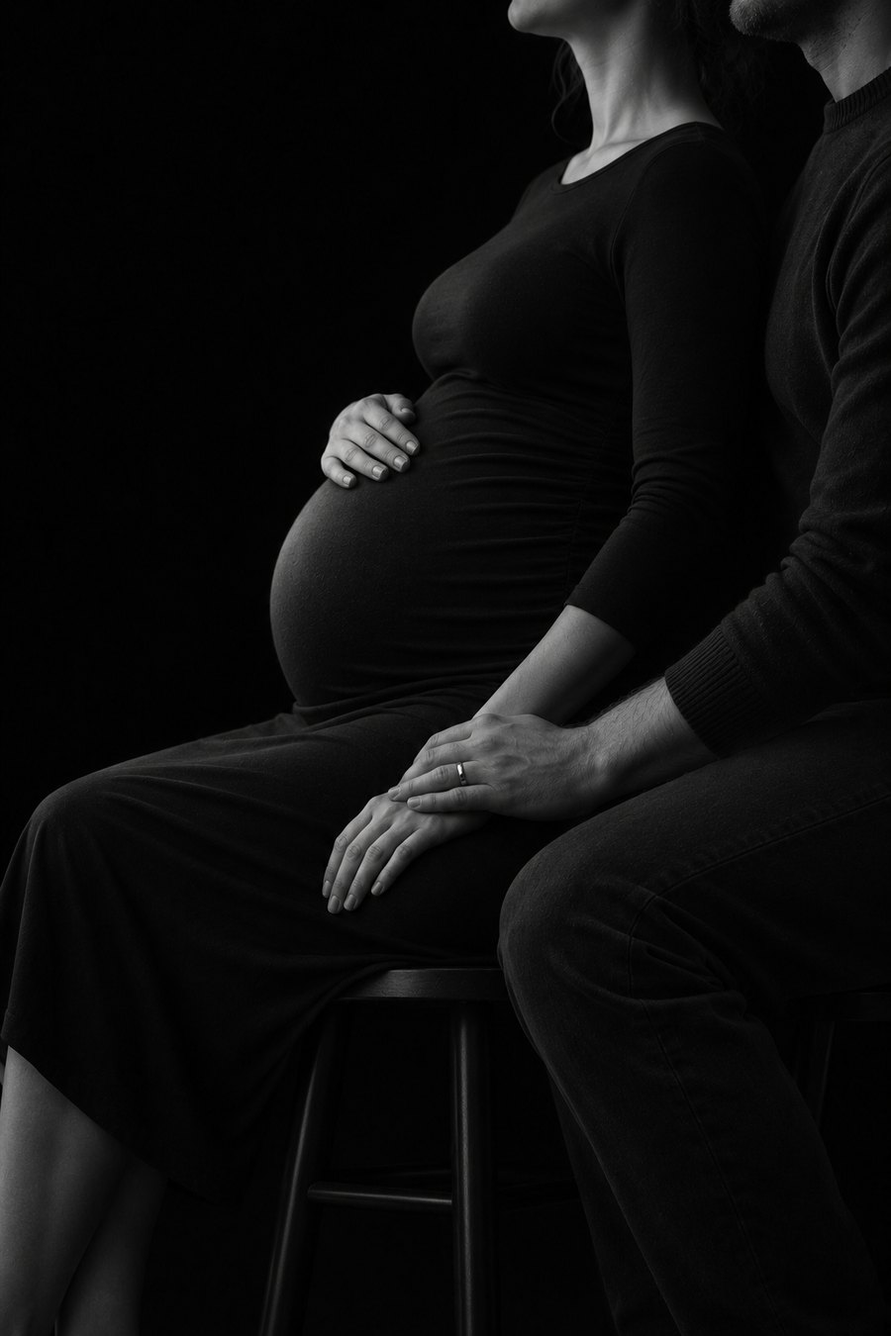
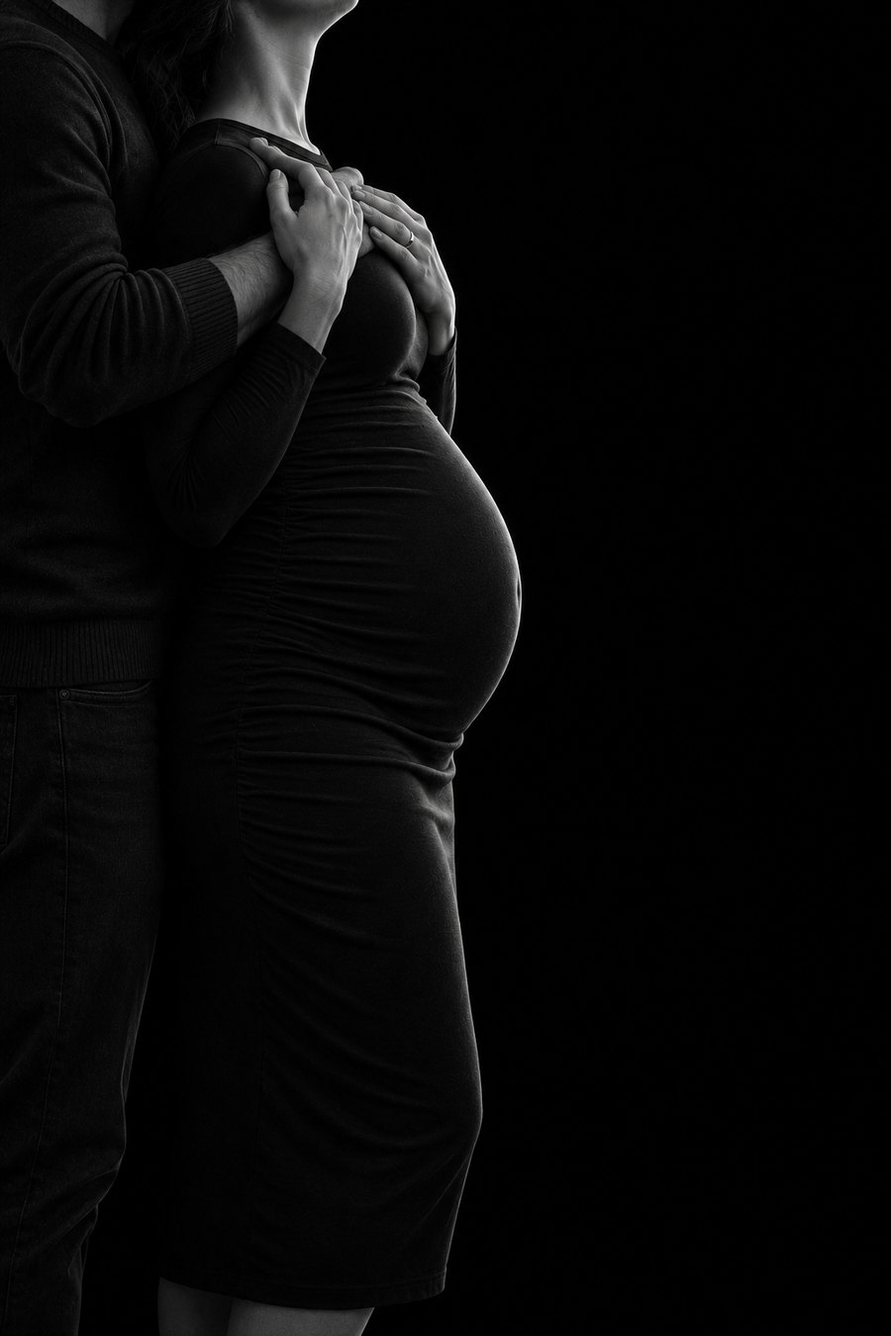
Беременность: вместо пары на стуле возвращено объятие

diff --git a/site/kz/index.html b/site/kz/index.html
@@ -42,7 +42,7 @@ var t=document.querySelector('meta[name="theme-color"]');if(t)t.content=p[1]}();
 <link rel="preconnect" href="https://fonts.googleapis.com">
 <link rel="preconnect" href="https://fonts.gstatic.com" crossorigin>
 <link href="https://fonts.googleapis.com/css2?family=Inter:wght@400;500;600;700;800&family=Unbounded:wght@900&display=swap" rel="stylesheet">
-<link rel="stylesheet" href="../assets/style.css?v=1794802335">
+<link rel="stylesheet" href="../assets/style.css?v=1794802442">
 </head>
 <body id="top" class="is-home">
 <header class="top">
@@ -61,9 +61,9 @@ var t=document.querySelector('meta[name="theme-color"]');if(t)t.content=p[1]}();
 
 <div class="home" id="home">
 <section class="stage">
-  <div class="splash"><picture class="tile"><source media="(max-width: 760px)" srcset="../photos/home/02.jpg?v=1794802335"><img src="../photos/home/01.jpg?v=1794802335" alt="Veronika Kim"></picture></div>
-  <h1 class="wordmark"><picture><source media="(max-width: 760px)" data-srcset="../assets/wordmark-v1.png?v=1794802335" width="678" height="1692"><img data-src="../assets/wordmark-1.png?v=1794802335" alt="Veronika Kim" width="1692" height="678"></picture><script>!function(p){var n=document.documentElement.getAttribute("data-logo")||1,s=p.firstChild,i=p.lastChild;s.srcset=s.getAttribute("data-srcset").replace("-v1.","-v"+n+".");i.src=i.getAttribute("data-src").replace("-1.","-"+n+".")}(document.currentScript.previousElementSibling)</script><noscript><img src="../assets/wordmark-1.png?v=1794802335" alt="Veronika Kim" width="1692" height="678"></noscript></h1>
-  <div class="drift"><div class="drift-item"><a href="../kz/art/editorial/"><img src="../photos/drift/editorial.jpg?v=1794802335" width="315" height="560" alt="Авторлық портрет" decoding="async"></a></div><div class="drift-item"><a href="../kz/book/mountains/"><img src="../photos/drift/mountains.jpg?v=1794802335" width="560" height="373" alt="Таудағы дрон" decoding="async"></a></div><div class="drift-item"><a href="../kz/book/kids/"><img src="../photos/drift/kids.jpg?v=1794802335" width="400" height="560" alt="Балалар" decoding="async"></a></div><div class="drift-item"><a href="../kz/book/underwater/"><img src="../photos/drift/underwater.jpg?v=1794802335" width="448" height="560" alt="Су астында" decoding="async"></a></div><div class="drift-item"><a href="../kz/book/portrait/"><img src="../photos/drift/portrait.jpg?v=1794802335" width="420" height="560" alt="Портрет" decoding="async"></a></div><div class="drift-item"><a href="../kz/architecture/"><img src="../photos/drift/architecture.jpg?v=1794802335" width="560" height="405" alt="Сәулет және дрон" decoding="async"></a></div><div class="drift-item"><a href="../kz/book/love-story/"><img src="../photos/drift/love-story.jpg?v=1794802335" width="560" height="373" alt="Love story" decoding="async"></a></div><div class="drift-item"><a href="../kz/art/travel/"><img src="../photos/drift/travel.jpg?v=1794802335" width="560" height="373" alt="Саяхат" decoding="async"></a></div></div>
+  <div class="splash"><picture class="tile"><source media="(max-width: 760px)" srcset="../photos/home/02.jpg?v=1794802442"><img src="../photos/home/01.jpg?v=1794802442" alt="Veronika Kim"></picture></div>
+  <h1 class="wordmark"><picture><source media="(max-width: 760px)" data-srcset="../assets/wordmark-v1.png?v=1794802442" width="678" height="1692"><img data-src="../assets/wordmark-1.png?v=1794802442" alt="Veronika Kim" width="1692" height="678"></picture><script>!function(p){var n=document.documentElement.getAttribute("data-logo")||1,s=p.firstChild,i=p.lastChild;s.srcset=s.getAttribute("data-srcset").replace("-v1.","-v"+n+".");i.src=i.getAttribute("data-src").replace("-1.","-"+n+".")}(document.currentScript.previousElementSibling)</script><noscript><img src="../assets/wordmark-1.png?v=1794802442" alt="Veronika Kim" width="1692" height="678"></noscript></h1>
+  <div class="drift"><div class="drift-item"><a href="../kz/art/editorial/"><img src="../photos/drift/editorial.jpg?v=1794802442" width="315" height="560" alt="Авторлық портрет" decoding="async"></a></div><div class="drift-item"><a href="../kz/book/mountains/"><img src="../photos/drift/mountains.jpg?v=1794802442" width="560" height="373" alt="Таудағы дрон" decoding="async"></a></div><div class="drift-item"><a href="../kz/book/kids/"><img src="../photos/drift/kids.jpg?v=1794802442" width="400" height="560" alt="Балалар" decoding="async"></a></div><div class="drift-item"><a href="../kz/book/underwater/"><img src="../photos/drift/underwater.jpg?v=1794802442" width="448" height="560" alt="Су астында" decoding="async"></a></div><div class="drift-item"><a href="../kz/book/portrait/"><img src="../photos/drift/portrait.jpg?v=1794802442" width="420" height="560" alt="Портрет" decoding="async"></a></div><div class="drift-item"><a href="../kz/architecture/"><img src="../photos/drift/architecture.jpg?v=1794802442" width="560" height="405" alt="Сәулет және дрон" decoding="async"></a></div><div class="drift-item"><a href="../kz/book/love-story/"><img src="../photos/drift/love-story.jpg?v=1794802442" width="560" height="373" alt="Love story" decoding="async"></a></div><div class="drift-item"><a href="../kz/art/travel/"><img src="../photos/drift/travel.jpg?v=1794802442" width="560" height="373" alt="Саяхат" decoding="async"></a></div></div>
 </section>
 <div class="home-content">
 <p class="statement">Маған мінсіз адамдар керек емес. <em>Маған тірі адамдар қызық.</em></p>
@@ -90,6 +90,6 @@ var t=document.querySelector('meta[name="theme-color"]');if(t)t.content=p[1]}();
   <div class="foot-bottom"><span>© 2026 Veronika Kim. Барлық құқықтар қорғалған</span><a href="#top">Жоғарыға</a></div>
 </footer>
 <div class="lb" role="dialog" aria-modal="true"><span class="c"></span><button class="x">Жабу</button><button class="p">← Артқа</button><img alt=""><button class="nx">Алға →</button></div>
-<script src="../assets/app.js?v=1794802335"></script>
+<script src="../assets/app.js?v=1794802442"></script>
 </body>
 </html>

diff --git a/site/en/index.html b/site/en/index.html
@@ -42,7 +42,7 @@ var t=document.querySelector('meta[name="theme-color"]');if(t)t.content=p[1]}();
 <link rel="preconnect" href="https://fonts.googleapis.com">
 <link rel="preconnect" href="https://fonts.gstatic.com" crossorigin>
 <link href="https://fonts.googleapis.com/css2?family=Inter:wght@400;500;600;700;800&family=Unbounded:wght@900&display=swap" rel="stylesheet">
-<link rel="stylesheet" href="../assets/style.css?v=1794802335">
+<link rel="stylesheet" href="../assets/style.css?v=1794802442">
 </head>
 <body id="top" class="is-home">
 <header class="top">
@@ -61,9 +61,9 @@ var t=document.querySelector('meta[name="theme-color"]');if(t)t.content=p[1]}();
 
 <div class="home" id="home">
 <section class="stage">
-  <div class="splash"><picture class="tile"><source media="(max-width: 760px)" srcset="../photos/home/02.jpg?v=1794802335"><img src="../photos/home/01.jpg?v=1794802335" alt="Veronika Kim"></picture></div>
-  <h1 class="wordmark"><picture><source media="(max-width: 760px)" data-srcset="../assets/wordmark-v1.png?v=1794802335" width="678" height="1692"><img data-src="../assets/wordmark-1.png?v=1794802335" alt="Veronika Kim" width="1692" height="678"></picture><script>!function(p){var n=document.documentElement.getAttribute("data-logo")||1,s=p.firstChild,i=p.lastChild;s.srcset=s.getAttribute("data-srcset").replace("-v1.","-v"+n+".");i.src=i.getAttribute("data-src").replace("-1.","-"+n+".")}(document.currentScript.previousElementSibling)</script><noscript><img src="../assets/wordmark-1.png?v=1794802335" alt="Veronika Kim" width="1692" height="678"></noscript></h1>
-  <div class="drift"><div class="drift-item"><a href="../en/art/editorial/"><img src="../photos/drift/editorial.jpg?v=1794802335" width="315" height="560" alt="Art portrait" decoding="async"></a></div><div class="drift-item"><a href="../en/book/mountains/"><img src="../photos/drift/mountains.jpg?v=1794802335" width="560" height="373" alt="Mountains &amp; drone" decoding="async"></a></div><div class="drift-item"><a href="../en/book/kids/"><img src="../photos/drift/kids.jpg?v=1794802335" width="400" height="560" alt="Children" decoding="async"></a></div><div class="drift-item"><a href="../en/book/underwater/"><img src="../photos/drift/underwater.jpg?v=1794802335" width="448" height="560" alt="Underwater" decoding="async"></a></div><div class="drift-item"><a href="../en/book/portrait/"><img src="../photos/drift/portrait.jpg?v=1794802335" width="420" height="560" alt="Portrait" decoding="async"></a></div><div class="drift-item"><a href="../en/architecture/"><img src="../photos/drift/architecture.jpg?v=1794802335" width="560" height="405" alt="Architecture &amp; drone" decoding="async"></a></div><div class="drift-item"><a href="../en/book/love-story/"><img src="../photos/drift/love-story.jpg?v=1794802335" width="560" height="373" alt="Love story" decoding="async"></a></div><div class="drift-item"><a href="../en/art/travel/"><img src="../photos/drift/travel.jpg?v=1794802335" width="560" height="373" alt="Travel" decoding="async"></a></div></div>
+  <div class="splash"><picture class="tile"><source media="(max-width: 760px)" srcset="../photos/home/02.jpg?v=1794802442"><img src="../photos/home/01.jpg?v=1794802442" alt="Veronika Kim"></picture></div>
+  <h1 class="wordmark"><picture><source media="(max-width: 760px)" data-srcset="../assets/wordmark-v1.png?v=1794802442" width="678" height="1692"><img data-src="../assets/wordmark-1.png?v=1794802442" alt="Veronika Kim" width="1692" height="678"></picture><script>!function(p){var n=document.documentElement.getAttribute("data-logo")||1,s=p.firstChild,i=p.lastChild;s.srcset=s.getAttribute("data-srcset").replace("-v1.","-v"+n+".");i.src=i.getAttribute("data-src").replace("-1.","-"+n+".")}(document.currentScript.previousElementSibling)</script><noscript><img src="../assets/wordmark-1.png?v=1794802442" alt="Veronika Kim" width="1692" height="678"></noscript></h1>
+  <div class="drift"><div class="drift-item"><a href="../en/art/editorial/"><img src="../photos/drift/editorial.jpg?v=1794802442" width="315" height="560" alt="Art portrait" decoding="async"></a></div><div class="drift-item"><a href="../en/book/mountains/"><img src="../photos/drift/mountains.jpg?v=1794802442" width="560" height="373" alt="Mountains &amp; drone" decoding="async"></a></div><div class="drift-item"><a href="../en/book/kids/"><img src="../photos/drift/kids.jpg?v=1794802442" width="400" height="560" alt="Children" decoding="async"></a></div><div class="drift-item"><a href="../en/book/underwater/"><img src="../photos/drift/underwater.jpg?v=1794802442" width="448" height="560" alt="Underwater" decoding="async"></a></div><div class="drift-item"><a href="../en/book/portrait/"><img src="../photos/drift/portrait.jpg?v=1794802442" width="420" height="560" alt="Portrait" decoding="async"></a></div><div class="drift-item"><a href="../en/architecture/"><img src="../photos/drift/architecture.jpg?v=1794802442" width="560" height="405" alt="Architecture &amp; drone" decoding="async"></a></div><div class="drift-item"><a href="../en/book/love-story/"><img src="../photos/drift/love-story.jpg?v=1794802442" width="560" height="373" alt="Love story" decoding="async"></a></div><div class="drift-item"><a href="../en/art/travel/"><img src="../photos/drift/travel.jpg?v=1794802442" width="560" height="373" alt="Travel" decoding="async"></a></div></div>
 </section>
 <div class="home-content">
 <p class="statement">I don't need perfect people. <em>I'm interested in real ones.</em></p>
@@ -90,6 +90,6 @@ var t=document.querySelector('meta[name="theme-color"]');if(t)t.content=p[1]}();
   <div class="foot-bottom"><span>© 2026 Veronika Kim. All rights reserved</span><a href="#top">Back to top</a></div>
 </footer>
 <div class="lb" role="dialog" aria-modal="true"><span class="c"></span><button class="x">Close</button><button class="p">← Prev</button><img alt=""><button class="nx">Next →</button></div>
-<script src="../assets/app.js?v=1794802335"></script>
+<script src="../assets/app.js?v=1794802442"></script>
 </body>
 </html>

diff --git a/site/index.html b/site/index.html
@@ -42,7 +42,7 @@ var t=document.querySelector('meta[name="theme-color"]');if(t)t.content=p[1]}();
 <link rel="preconnect" href="https://fonts.googleapis.com">
 <link rel="preconnect" href="https://fonts.gstatic.com" crossorigin>
 <link href="https://fonts.googleapis.com/css2?family=Inter:wght@400;500;600;700;800&family=Unbounded:wght@900&display=swap" rel="stylesheet">
-<link rel="stylesheet" href="assets/style.css?v=1794802335">
+<link rel="stylesheet" href="assets/style.css?v=1794802442">
 </head>
 <body id="top" class="is-home">
 <header class="top">
@@ -61,9 +61,9 @@ var t=document.querySelector('meta[name="theme-color"]');if(t)t.content=p[1]}();
 
 <div class="home" id="home">
 <section class="stage">
-  <div class="splash"><picture class="tile"><source media="(max-width: 760px)" srcset="photos/home/02.jpg?v=1794802335"><img src="photos/home/01.jpg?v=1794802335" alt="Veronika Kim"></picture></div>
-  <h1 class="wordmark"><picture><source media="(max-width: 760px)" data-srcset="assets/wordmark-v1.png?v=1794802335" width="678" height="1692"><img data-src="assets/wordmark-1.png?v=1794802335" alt="Veronika Kim" width="1692" height="678"></picture><script>!function(p){var n=document.documentElement.getAttribute("data-logo")||1,s=p.firstChild,i=p.lastChild;s.srcset=s.getAttribute("data-srcset").replace("-v1.","-v"+n+".");i.src=i.getAttribute("data-src").replace("-1.","-"+n+".")}(document.currentScript.previousElementSibling)</script><noscript><img src="assets/wordmark-1.png?v=1794802335" alt="Veronika Kim" width="1692" height="678"></noscript></h1>
-  <div class="drift"><div class="drift-item"><a href="art/editorial/"><img src="photos/drift/editorial.jpg?v=1794802335" width="315" height="560" alt="Авторский портрет" decoding="async"></a></div><div class="drift-item"><a href="book/mountains/"><img src="photos/drift/mountains.jpg?v=1794802335" width="560" height="373" alt="Горы с дроном" decoding="async"></a></div><div class="drift-item"><a href="book/kids/"><img src="photos/drift/kids.jpg?v=1794802335" width="400" height="560" alt="Дети" decoding="async"></a></div><div class="drift-item"><a href="book/underwater/"><img src="photos/drift/underwater.jpg?v=1794802335" width="448" height="560" alt="Под водой" decoding="async"></a></div><div class="drift-item"><a href="book/portrait/"><img src="photos/drift/portrait.jpg?v=1794802335" width="420" height="560" alt="Портрет" decoding="async"></a></div><div class="drift-item"><a href="architecture/"><img src="photos/drift/architecture.jpg?v=1794802335" width="560" height="405" alt="Архитектура и дрон" decoding="async"></a></div><div class="drift-item"><a href="book/love-story/"><img src="photos/drift/love-story.jpg?v=1794802335" width="560" height="373" alt="Love story" decoding="async"></a></div><div class="drift-item"><a href="art/travel/"><img src="photos/drift/travel.jpg?v=1794802335" width="560" height="373" alt="Travel" decoding="async"></a></div></div>
+  <div class="splash"><picture class="tile"><source media="(max-width: 760px)" srcset="photos/home/02.jpg?v=1794802442"><img src="photos/home/01.jpg?v=1794802442" alt="Veronika Kim"></picture></div>
+  <h1 class="wordmark"><picture><source media="(max-width: 760px)" data-srcset="assets/wordmark-v1.png?v=1794802442" width="678" height="1692"><img data-src="assets/wordmark-1.png?v=1794802442" alt="Veronika Kim" width="1692" height="678"></picture><script>!function(p){var n=document.documentElement.getAttribute("data-logo")||1,s=p.firstChild,i=p.lastChild;s.srcset=s.getAttribute("data-srcset").replace("-v1.","-v"+n+".");i.src=i.getAttribute("data-src").replace("-1.","-"+n+".")}(document.currentScript.previousElementSibling)</script><noscript><img src="assets/wordmark-1.png?v=1794802442" alt="Veronika Kim" width="1692" height="678"></noscript></h1>
+  <div class="drift"><div class="drift-item"><a href="art/editorial/"><img src="photos/drift/editorial.jpg?v=1794802442" width="315" height="560" alt="Авторский портрет" decoding="async"></a></div><div class="drift-item"><a href="book/mountains/"><img src="photos/drift/mountains.jpg?v=1794802442" width="560" height="373" alt="Горы с дроном" decoding="async"></a></div><div class="drift-item"><a href="book/kids/"><img src="photos/drift/kids.jpg?v=1794802442" width="400" height="560" alt="Дети" decoding="async"></a></div><div class="drift-item"><a href="book/underwater/"><img src="photos/drift/underwater.jpg?v=1794802442" width="448" height="560" alt="Под водой" decoding="async"></a></div><div class="drift-item"><a href="book/portrait/"><img src="photos/drift/portrait.jpg?v=1794802442" width="420" height="560" alt="Портрет" decoding="async"></a></div><div class="drift-item"><a href="architecture/"><img src="photos/drift/architecture.jpg?v=1794802442" width="560" height="405" alt="Архитектура и дрон" decoding="async"></a></div><div class="drift-item"><a href="book/love-story/"><img src="photos/drift/love-story.jpg?v=1794802442" width="560" height="373" alt="Love story" decoding="async"></a></div><div class="drift-item"><a href="art/travel/"><img src="photos/drift/travel.jpg?v=1794802442" width="560" height="373" alt="Travel" decoding="async"></a></div></div>
 </section>
 <div class="home-content">
 <p class="statement">Мне не нужны идеальные люди. <em>Мне интересны живые.</em></p>
@@ -90,6 +90,6 @@ var t=document.querySelector('meta[name="theme-color"]');if(t)t.content=p[1]}();
   <div class="foot-bottom"><span>© 2026 Veronika Kim. Все права защищены</span><a href="#top">Наверх</a></div>
 </footer>
 <div class="lb" role="dialog" aria-modal="true"><span class="c"></span><button class="x">Закрыть</button><button class="p">← Назад</button><img alt=""><button class="nx">Вперёд →</button></div>
-<script src="assets/app.js?v=1794802335"></script>
+<script src="assets/app.js?v=1794802442"></script>
 </body>
 </html>

diff --git a/site/kz/art/editorial/index.html b/site/kz/art/editorial/index.html
@@ -42,7 +42,7 @@ var t=document.querySelector('meta[name="theme-color"]');if(t)t.content=p[1]}();
 <link rel="preconnect" href="https://fonts.googleapis.com">
 <link rel="preconnect" href="https://fonts.gstatic.com" crossorigin>
 <link href="https://fonts.googleapis.com/css2?family=Inter:wght@400;500;600;700;800&family=Unbounded:wght@900&display=swap" rel="stylesheet">
-<link rel="stylesheet" href="../../../assets/style.css?v=1794802335">
+<link rel="stylesheet" href="../../../assets/style.css?v=1794802442">
 </head>
 <body id="top">
 <header class="top">
@@ -70,6 +70,6 @@ var t=document.querySelector('meta[name="theme-color"]');if(t)t.content=p[1]}();
   <div class="foot-bottom"><span>© 2026 Veronika Kim. Барлық құқықтар қорғалған</span><a href="#top">Жоғарыға</a></div>
 </footer>
 <div class="lb" role="dialog" aria-modal="true"><span class="c"></span><button class="x">Жабу</button><button class="p">← Артқа</button><img alt=""><button class="nx">Алға →</button></div>
-<script src="../../../assets/app.js?v=1794802335"></script>
+<script src="../../../assets/app.js?v=1794802442"></script>
 </body>
 </html>

diff --git a/site/kz/art/film-darkroom/index.html b/site/kz/art/film-darkroom/index.html
@@ -42,7 +42,7 @@ var t=document.querySelector('meta[name="theme-color"]');if(t)t.content=p[1]}();
 <link rel="preconnect" href="https://fonts.googleapis.com">
 <link rel="preconnect" href="https://fonts.gstatic.com" crossorigin>
 <link href="https://fonts.googleapis.com/css2?family=Inter:wght@400;500;600;700;800&family=Unbounded:wght@900&display=swap" rel="stylesheet">
-<link rel="stylesheet" href="../../../assets/style.css?v=1794802335">
+<link rel="stylesheet" href="../../../assets/style.css?v=1794802442">
 </head>
 <body id="top">
 <header class="top">
@@ -70,6 +70,6 @@ var t=document.querySelector('meta[name="theme-color"]');if(t)t.content=p[1]}();
   <div class="foot-bottom"><span>© 2026 Veronika Kim. Барлық құқықтар қорғалған</span><a href="#top">Жоғарыға</a></div>
 </footer>
 <div class="lb" role="dialog" aria-modal="true"><span class="c"></span><button class="x">Жабу</button><button class="p">← Артқа</button><img alt=""><button class="nx">Алға →</button></div>
-<script src="../../../assets/app.js?v=1794802335"></script>
+<script src="../../../assets/app.js?v=1794802442"></script>
 </body>
 </html>

diff --git a/site/kz/art/thirst-for-life/index.html b/site/kz/art/thirst-for-life/index.html
@@ -42,7 +42,7 @@ var t=document.querySelector('meta[name="theme-color"]');if(t)t.content=p[1]}();
 <link rel="preconnect" href="https://fonts.googleapis.com">
 <link rel="preconnect" href="https://fonts.gstatic.com" crossorigin>
 <link href="https://fonts.googleapis.com/css2?family=Inter:wght@400;500;600;700;800&family=Unbounded:wght@900&display=swap" rel="stylesheet">
-<link rel="stylesheet" href="../../../assets/style.css?v=1794802335">
+<link rel="stylesheet" href="../../../assets/style.css?v=1794802442">
 </head>
 <body id="top">
 <header class="top">
@@ -70,6 +70,6 @@ var t=document.querySelector('meta[name="theme-color"]');if(t)t.content=p[1]}();
   <div class="foot-bottom"><span>© 2026 Veronika Kim. Барлық құқықтар қорғалған</span><a href="#top">Жоғарыға</a></div>
 </footer>
 <div class="lb" role="dialog" aria-modal="true"><span class="c"></span><button class="x">Жабу</button><button class="p">← Артқа</button><img alt=""><button class="nx">Алға →</button></div>
-<script src="../../../assets/app.js?v=1794802335"></script>
+<script src="../../../assets/app.js?v=1794802442"></script>
 </body>
 </html>

diff --git a/site/kz/art/travel/index.html b/site/kz/art/travel/index.html
@@ -42,7 +42,7 @@ var t=document.querySelector('meta[name="theme-color"]');if(t)t.content=p[1]}();
 <link rel="preconnect" href="https://fonts.googleapis.com">
 <link rel="preconnect" href="https://fonts.gstatic.com" crossorigin>
 <link href="https://fonts.googleapis.com/css2?family=Inter:wght@400;500;600;700;800&family=Unbounded:wght@900&display=swap" rel="stylesheet">
-<link rel="stylesheet" href="../../../assets/style.css?v=1794802335">
+<link rel="stylesheet" href="../../../assets/style.css?v=1794802442">
 </head>
 <body id="top">
 <header class="top">
@@ -70,6 +70,6 @@ var t=document.querySelector('meta[name="theme-color"]');if(t)t.content=p[1]}();
   <div class="foot-bottom"><span>© 2026 Veronika Kim. Барлық құқықтар қорғалған</span><a href="#top">Жоғарыға</a></div>
 </footer>
 <div class="lb" role="dialog" aria-modal="true"><span class="c"></span><button class="x">Жабу</button><button class="p">← Артқа</button><img alt=""><button class="nx">Алға →</button></div>
-<script src="../../../assets/app.js?v=1794802335"></script>
+<script src="../../../assets/app.js?v=1794802442"></script>
 </body>
 </html>

diff --git a/site/kz/book/family/index.html b/site/kz/book/family/index.html
@@ -42,7 +42,7 @@ var t=document.querySelector('meta[name="theme-color"]');if(t)t.content=p[1]}();
 <link rel="preconnect" href="https://fonts.googleapis.com">
 <link rel="preconnect" href="https://fonts.gstatic.com" crossorigin>
 <link href="https://fonts.googleapis.com/css2?family=Inter:wght@400;500;600;700;800&family=Unbounded:wght@900&display=swap" rel="stylesheet">
-<link rel="stylesheet" href="../../../assets/style.css?v=1794802335">
+<link rel="stylesheet" href="../../../assets/style.css?v=1794802442">
 </head>
 <body id="top">
 <header class="top">
@@ -70,6 +70,6 @@ var t=document.querySelector('meta[name="theme-color"]');if(t)t.content=p[1]}();
   <div class="foot-bottom"><span>© 2026 Veronika Kim. Барлық құқықтар қорғалған</span><a href="#top">Жоғарыға</a></div>
 </footer>
 <div class="lb" role="dialog" aria-modal="true"><span class="c"></span><button class="x">Жабу</button><button class="p">← Артқа</button><img alt=""><button class="nx">Алға →</button></div>
-<script src="../../../assets/app.js?v=1794802335"></script>
+<script src="../../../assets/app.js?v=1794802442"></script>
 </body>
 </html>

diff --git a/site/kz/book/kids/index.html b/site/kz/book/kids/index.html
@@ -42,7 +42,7 @@ var t=document.querySelector('meta[name="theme-color"]');if(t)t.content=p[1]}();
 <link rel="preconnect" href="https://fonts.googleapis.com">
 <link rel="preconnect" href="https://fonts.gstatic.com" crossorigin>
 <link href="https://fonts.googleapis.com/css2?family=Inter:wght@400;500;600;700;800&family=Unbounded:wght@900&display=swap" rel="stylesheet">
-<link rel="stylesheet" href="../../../assets/style.css?v=1794802335">
+<link rel="stylesheet" href="../../../assets/style.css?v=1794802442">
 </head>
 <body id="top">
 <header class="top">
@@ -70,6 +70,6 @@ var t=document.querySelector('meta[name="theme-color"]');if(t)t.content=p[1]}();
   <div class="foot-bottom"><span>© 2026 Veronika Kim. Барлық құқықтар қорғалған</span><a href="#top">Жоғарыға</a></div>
 </footer>
 <div class="lb" role="dialog" aria-modal="true"><span class="c"></span><button class="x">Жабу</button><button class="p">← Артқа</button><img alt=""><button class="nx">Алға →</button></div>
-<script src="../../../assets/app.js?v=1794802335"></script>
+<script src="../../../assets/app.js?v=1794802442"></script>
 </body>
 </html>

diff --git a/site/kz/book/love-story/index.html b/site/kz/book/love-story/index.html
@@ -42,7 +42,7 @@ var t=document.querySelector('meta[name="theme-color"]');if(t)t.content=p[1]}();
 <link rel="preconnect" href="https://fonts.googleapis.com">
 <link rel="preconnect" href="https://fonts.gstatic.com" crossorigin>
 <link href="https://fonts.googleapis.com/css2?family=Inter:wght@400;500;600;700;800&family=Unbounded:wght@900&display=swap" rel="stylesheet">
-<link rel="stylesheet" href="../../../assets/style.css?v=1794802335">
+<link rel="stylesheet" href="../../../assets/style.css?v=1794802442">
 </head>
 <body id="top">
 <header class="top">
@@ -70,6 +70,6 @@ var t=document.querySelector('meta[name="theme-color"]');if(t)t.content=p[1]}();
   <div class="foot-bottom"><span>© 2026 Veronika Kim. Барлық құқықтар қорғалған</span><a href="#top">Жоғарыға</a></div>
 </footer>
 <div class="lb" role="dialog" aria-modal="true"><span class="c"></span><button class="x">Жабу</button><button class="p">← Артқа</button><img alt=""><button class="nx">Алға →</button></div>
-<script src="../../../assets/app.js?v=1794802335"></script>
+<script src="../../../assets/app.js?v=1794802442"></script>
 </body>
 </html>

diff --git a/site/kz/book/mountains/index.html b/site/kz/book/mountains/index.html
@@ -42,7 +42,7 @@ var t=document.querySelector('meta[name="theme-color"]');if(t)t.content=p[1]}();
 <link rel="preconnect" href="https://fonts.googleapis.com">
 <link rel="preconnect" href="https://fonts.gstatic.com" crossorigin>
 <link href="https://fonts.googleapis.com/css2?family=Inter:wght@400;500;600;700;800&family=Unbounded:wght@900&display=swap" rel="stylesheet">
-<link rel="stylesheet" href="../../../assets/style.css?v=1794802335">
+<link rel="stylesheet" href="../../../assets/style.css?v=1794802442">
 </head>
 <body id="top">
 <header class="top">
@@ -70,6 +70,6 @@ var t=document.querySelector('meta[name="theme-color"]');if(t)t.content=p[1]}();
   <div class="foot-bottom"><span>© 2026 Veronika Kim. Барлық құқықтар қорғалған</span><a href="#top">Жоғарыға</a></div>
 </footer>
 <div class="lb" role="dialog" aria-modal="true"><span class="c"></span><button class="x">Жабу</button><button class="p">← Артқа</button><img alt=""><button class="nx">Алға →</button></div>
-<script src="../../../assets/app.js?v=1794802335"></script>
+<script src="../../../assets/app.js?v=1794802442"></script>
 </body>
 </html>

diff --git a/site/kz/book/portrait/index.html b/site/kz/book/portrait/index.html
@@ -42,7 +42,7 @@ var t=document.querySelector('meta[name="theme-color"]');if(t)t.content=p[1]}();
 <link rel="preconnect" href="https://fonts.googleapis.com">
 <link rel="preconnect" href="https://fonts.gstatic.com" crossorigin>
 <link href="https://fonts.googleapis.com/css2?family=Inter:wght@400;500;600;700;800&family=Unbounded:wght@900&display=swap" rel="stylesheet">
-<link rel="stylesheet" href="../../../assets/style.css?v=1794802335">
+<link rel="stylesheet" href="../../../assets/style.css?v=1794802442">
 </head>
 <body id="top">
 <header class="top">
@@ -70,6 +70,6 @@ var t=document.querySelector('meta[name="theme-color"]');if(t)t.content=p[1]}();
   <div class="foot-bottom"><span>© 2026 Veronika Kim. Барлық құқықтар қорғалған</span><a href="#top">Жоғарыға</a></div>
 </footer>
 <div class="lb" role="dialog" aria-modal="true"><span class="c"></span><button class="x">Жабу</button><button class="p">← Артқа</button><img alt=""><button class="nx">Алға →</button></div>
-<script src="../../../assets/app.js?v=1794802335"></script>
+<script src="../../../assets/app.js?v=1794802442"></script>
 </body>
 </html>
